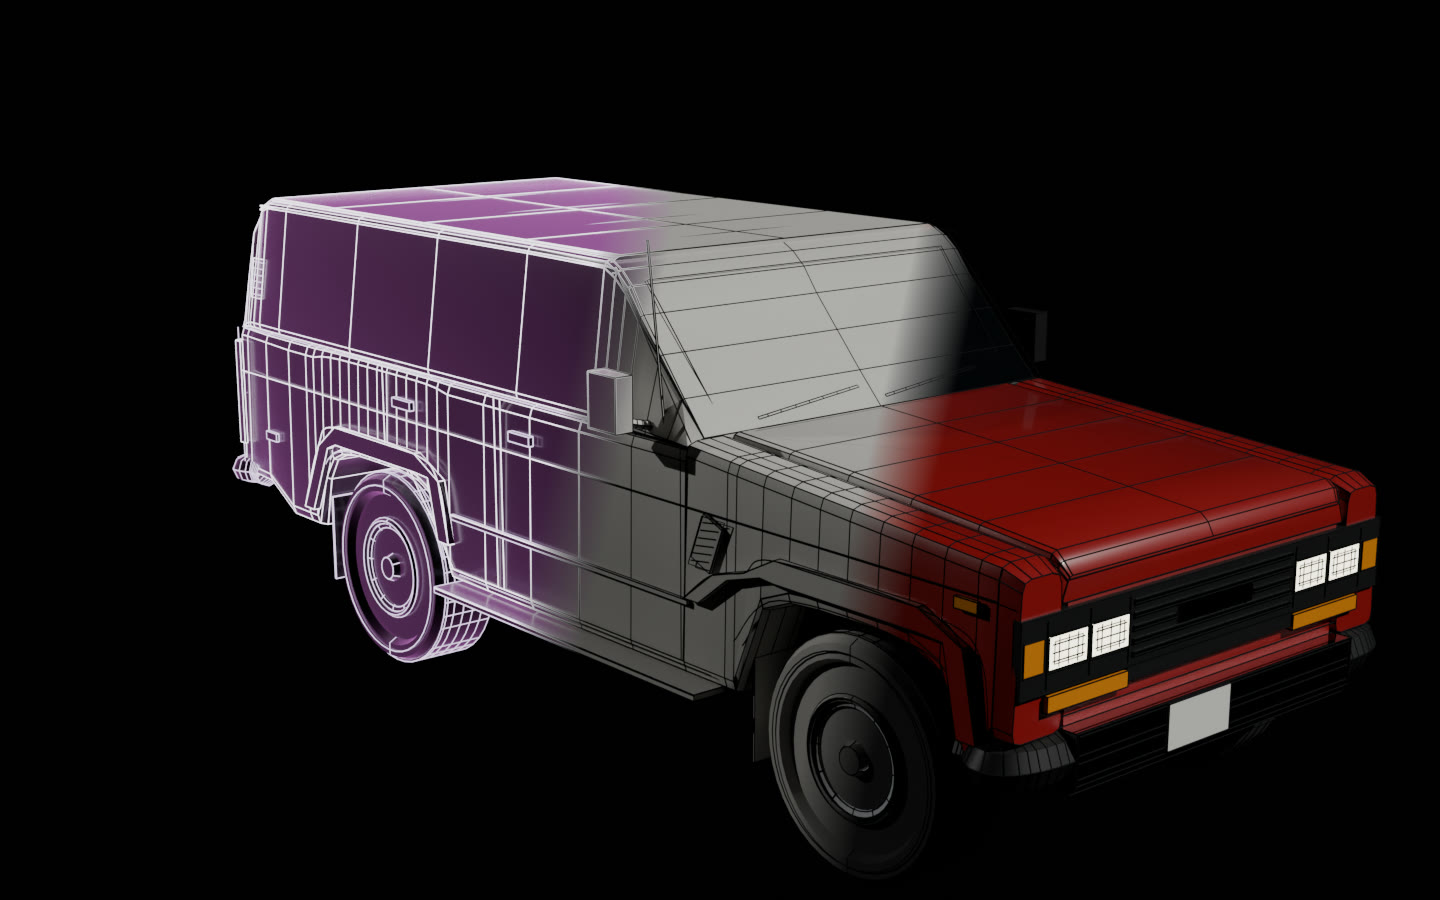
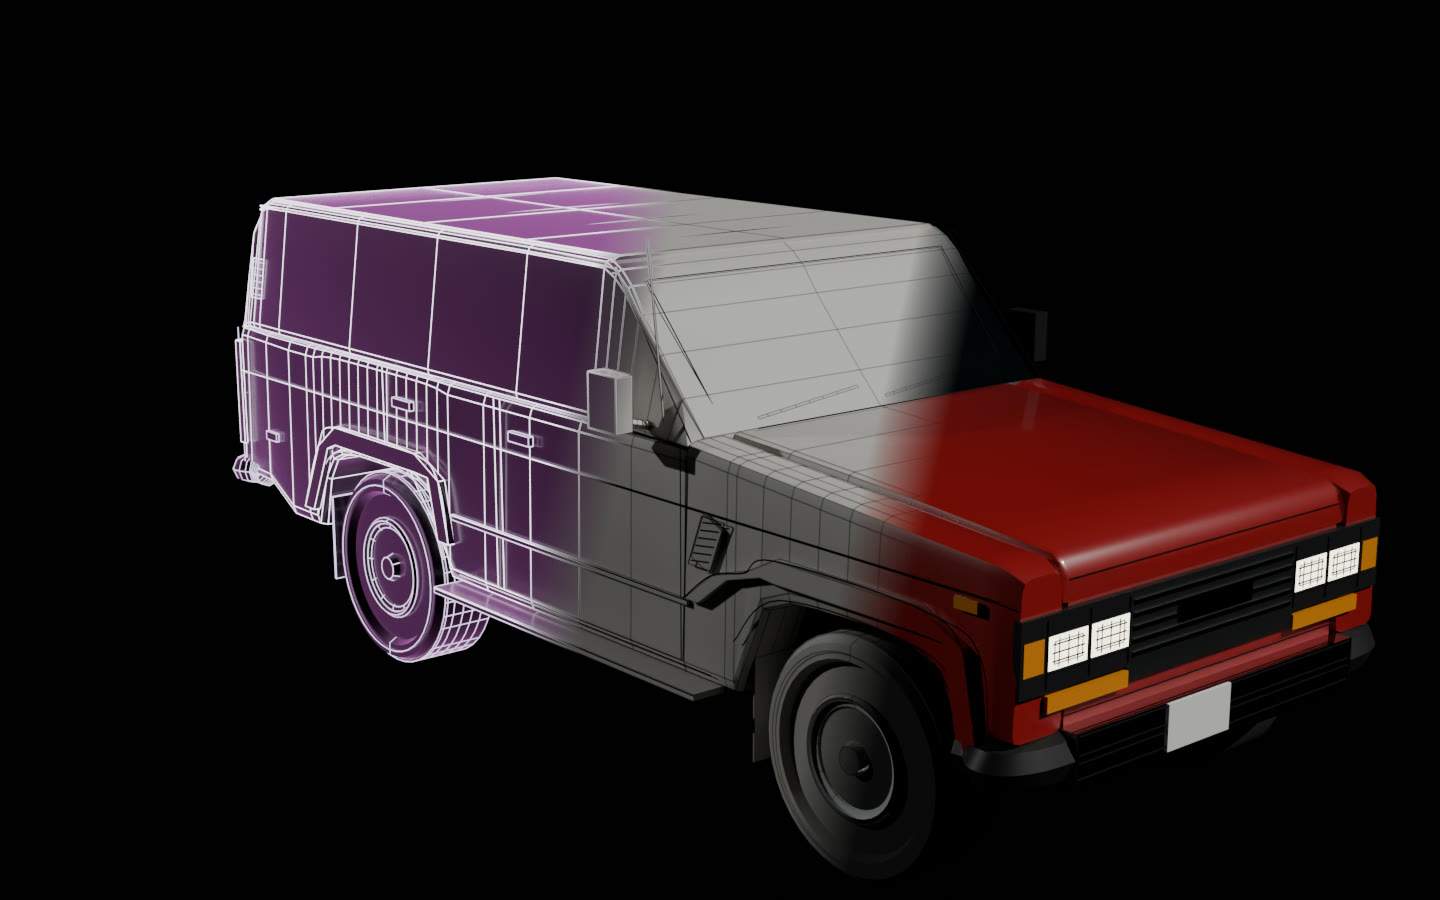
Seams, not wireframes: construction lines fade on the solid and finished model
A part's construction lines (the edges of its own surfaces) are not seams on a real object: in the
Blender add-on and on the example page they fade as the model turns solid (faint on the plain
model, gone on the finished one), and only the parts drawn as lines (door seams, creases, window
outlines) stay as seams. The hero is re-rendered.

diff --git a/examples/light-to-metal/index.html b/examples/light-to-metal/index.html
@@ -188,7 +188,7 @@ composer.addPass(new OutputPass());
 // one set of uniforms shared by every material of the current model
 const U = {
   uBuild: { value: 1 }, uScan: { value: 1.05 }, uMinY: { value: 0 }, uMaxY: { value: 1 }, uCert: { value: 0 },
-  uLines: { value: 1 }, uAccent: { value: new THREE.Color(TONE.accent) },
+  uLines: { value: 1 }, uFinish: { value: 1 }, uAccent: { value: new THREE.Color(TONE.accent) },
 };
 
 // a surface: its own colour and finish, a dark glass with a violet rim while it is light, a scan line turning it to metal
@@ -226,20 +226,24 @@ function surface(src, certColor) {
   return m;
 }
 
-// the line art: light while it is a hologram, dark seams once it is metal
-function lines(tone) {
+// the line art: light while it is a hologram, dark seams once it is metal. A part's construction
+// lines (the edges of its own surfaces) are not seams on a real object: they fade as it turns solid,
+// and only the design lines (parts drawn as lines: seams, creases, outlines) stay
+function lines(tone, construction) {
   return new THREE.ShaderMaterial({
-    uniforms: Object.assign({ uColor: { value: new THREE.Color(TONE[tone] || TONE.hairline) } }, U),
+    uniforms: Object.assign({ uColor: { value: new THREE.Color(TONE[tone] || TONE.hairline) }, uConstr: { value: construction ? 1 : 0 } }, U),
     vertexShader: `attribute float _phase; varying float vPhase; varying vec3 vWorld;
       void main() { vPhase = _phase; vec4 w = modelMatrix * vec4(position, 1.0); vWorld = w.xyz; gl_Position = projectionMatrix * viewMatrix * w; gl_PointSize = 4.0; }`,
-    fragmentShader: `uniform float uBuild, uScan, uMinY, uMaxY, uLines; uniform vec3 uColor, uAccent; varying float vPhase; varying vec3 vWorld;
+    fragmentShader: `uniform float uBuild, uScan, uMinY, uMaxY, uLines, uFinish, uConstr; uniform vec3 uColor, uAccent; varying float vPhase; varying vec3 vWorld;
       void main() {
         if (vPhase > uBuild + 0.0001 || uLines < 0.5) discard;
         float h = (vWorld.y - uMinY) / max(uMaxY - uMinY, 1e-4);
         float metal = smoothstep(uScan + 0.012, uScan - 0.012, h);
         float front = uBuild < 0.999 ? 1.0 - smoothstep(0.0, 0.03, uBuild - vPhase) : 0.0;
         vec3 col = mix(uColor * 0.95, vec3(0.018, 0.016, 0.02), metal) + uAccent * front * 2.0;
-        gl_FragColor = vec4(col, mix(0.9, 0.75, metal));
+        float keep = 1.0 - uConstr * metal * (0.65 + 0.35 * uFinish);
+        if (keep < 0.01) discard;
+        gl_FragColor = vec4(col, mix(0.9, 0.75, metal) * keep);
       }`,
     transparent: true, depthWrite: false,
   });
@@ -284,7 +288,7 @@ async function load(i) {
     if (!o.userData.src) o.userData.src = o.material;
     const p = partOf(o), cert = p ? p.userData.construct.certainty : "inferred";
     if (o.isMesh) { o.material = surface(o.userData.src, CERT[cert] || CERT.inferred); meshes.push(o); }
-    else { o.material = lines(toneOf(o.userData.src.name)); o.renderOrder = 1; }
+    else { o.material = lines(toneOf(o.userData.src.name), !!(o.parent && o.parent.children.some((c) => c.isMesh))); o.renderOrder = 1; }
   });
   // framing, the scan range, explode directions
   model.updateMatrixWorld(true);
@@ -338,6 +342,7 @@ const S = { metal: 1, finish: 1, build: 1, open: 0, explode: 0 };
 function setS(k, v) { S[k] = v; const el = $(k); el.value = v; el.style.setProperty("--p", (v * 100) + "%"); $(k + "-v").textContent = Math.round(v * 100) + "%"; }
 function apply() {
   U.uBuild.value = S.build;
+  U.uFinish.value = S.finish;
   U.uScan.value = -0.02 + S.metal * 1.04;
   bloom.strength = 0.1 + 0.5 * (1 - S.metal);
   for (const o of meshes) finishMaterial(o.material, S.finish);

diff --git a/hosts/blender/construct/__init__.py b/hosts/blender/construct/__init__.py
@@ -229,8 +229,13 @@ def _procedural(mat, shader):
         links.new(bump.outputs["Normal"], shader.inputs["Normal"])
 
 
-def _light_material(tone, root, name):
-    """The line art: light in the hologram, dark seams on the metal, revealed by the build."""
+def _light_material(tone, root, name, construction=False):
+    """The line art: light in the hologram, dark seams on the metal, revealed by the build.
+
+    Construction lines (the edges of a part's own surfaces: a loft's sections, a box's edges) make the
+    hologram readable but are not seams on a real object: they fade as it turns solid, faint on the
+    plain model and gone on the finished one. A part drawn only as lines (a door seam, a crease, a
+    window outline) is a design line and stays, as a seam."""
     mat = bpy.data.materials.new(name)
     mat.use_nodes = True
     nodes, links = mat.node_tree.nodes, mat.node_tree.links
@@ -253,6 +258,12 @@ def _light_material(tone, root, name):
     links.new(seam.outputs[0], look.inputs[2])
     clear = nodes.new("ShaderNodeBsdfTransparent")
     show = nodes.new("ShaderNodeMixShader")
+    if construction:
+        finish = _value_node(nodes, root, "finish", (-900, -600))
+        fade = _math(nodes, links, "MULTIPLY", metal.outputs[0],
+                     _math(nodes, links, "MULTIPLY_ADD", finish.outputs[0], 0.35, (-700, -600), c=0.65), (-500, -500))
+        keep = _math(nodes, links, "SUBTRACT", 1.0, fade, (-300, -500), clamp=True)
+        visible = _math(nodes, links, "MULTIPLY", visible, keep, (-100, -400))
     links.new(visible, show.inputs[0])
     links.new(clear.outputs[0], show.inputs[1])
     links.new(look.outputs[0], show.inputs[2])
@@ -383,17 +394,18 @@ def setup(root, objects, wire_radius, metal=1.0, keep_animations=False):
         if me is None:
             continue
         tone = ROLE_TONE.get(_info(o).get("role"), "hairline")
-        if tone not in lights:
-            name = "%s:light:%s" % (info.get("id", "construct"), tone)
-            lights[tone] = _light_material(tone, root, name)
-            groups[tone] = _tube_group(root, name, lights[tone])
+        key = (tone, len(o.data.polygons) > 0)        # lines of a part with surfaces are construction lines
+        if key not in lights:
+            name = "%s:light:%s%s" % (info.get("id", "construct"), tone, ":edges" if key[1] else "")
+            lights[key] = _light_material(tone, root, name, key[1])
+            groups[key] = _tube_group(root, name, lights[key])
         lo = bpy.data.objects.new(o.name.replace(":mesh", "") + ":light", me)
         for col in o.users_collection:
             col.objects.link(lo)
         lo.parent = o
-        lo.data.materials.append(lights[tone])
+        lo.data.materials.append(lights[key])
         mod = lo.modifiers.new("Construct Light", "NODES")
-        mod.node_group = groups[tone]
+        mod.node_group = groups[key]
     for m in list(bpy.data.materials):
         if m.name.startswith("construct:light") and m.users == 0:
             bpy.data.materials.remove(m)

diff --git a/construct_hologram/test_blender_addon.py b/construct_hologram/test_blender_addon.py
@@ -96,6 +96,7 @@ lights = [o for o in objs if o.name.endswith(":light")]
 e = lights[0].evaluated_get(bpy.context.evaluated_depsgraph_get())
 res["lights"], res["light_faces"], res["light_phase"] = len(lights), len(e.data.polygons), "_PHASE" in e.data.attributes
 res["light_material"] = bool(e.data.materials) and e.data.materials[0] is not None and ":light:" in e.data.materials[0].name
+res["edge_materials"] = sorted({m.name.endswith(":edges") for m in bpy.data.materials if ":light:" in m.name and not m.name.startswith("construct:")})
 res["open_actions"] = [a.name for a in bpy.data.actions if a.name.startswith("open")]
 bpy.ops.construct.animate_reveal()
 res["reveal_keyed"] = root.animation_data is not None and root.animation_data.action is not None
@@ -123,6 +124,7 @@ class InBlender(unittest.TestCase):
                 self.assertEqual(res["op"], ["FINISHED"])
                 self.assertEqual(res["props"], ["build", "finish", "metal", "open", "wire"])
                 self.assertTrue(res["light_material"])   # the tubes carry the line material, not Blender's default
+                self.assertEqual(res["edge_materials"], [False, True])   # design lines and construction lines
                 self.assertTrue(res["drivers_valid"])
                 self.assertGreater(res["joint_vertices"], 100)
                 self.assertLess(res["joint_worst"], 1e-4)

diff --git a/CHANGELOG.md b/CHANGELOG.md
@@ -33,6 +33,9 @@
   and makes wood, brushed metal and rubber procedural. The example page gains the same control and
   material maps for its four constructs; its hero shows the hologram, the plain model and the
   finished one in one Blender render.
+- **Seams, not wireframes:** on the solid and finished model, a part's construction lines (the
+  edges of its own surfaces) fade, faint on the plain model and gone on the finished one; parts
+  drawn as lines (seams, creases, outlines) stay as seams. In the add-on and on the example page.
 - **Fixed in the Blender add-on:** the line art's tubes rendered with Blender's default material
   (geometry made by a modifier carries none); each tone now has a node group that sets it.
 - **Audit:** `no-surface` warns when a main or structural part is drawn only as lines, so it would

diff --git a/examples/light-to-metal/README.md b/examples/light-to-metal/README.md
@@ -20,7 +20,8 @@ On the page:
 - **Light ↔ Metal** sweeps a scan line up the model: below it the solid model, its lines as dark
   seams; above it the hologram, lines of light over dark glass.
 - **Plain ↔ Finished** turns the plain model (clay) into the finished one: paint, chrome, glass,
-  brushed metal, rubber, lamps.
+  brushed metal, rubber, lamps. As the model turns solid, the construction lines (the edges of each
+  part's surfaces) fade, and only the design lines stay as seams: doors, creases, outlines.
 - **Build** replays the assembly from each vertex's build phase, with its bright front.
 - **Open** plays the model's own joints, from the file's `open` animation.
 - **Explode** takes the model apart into its named parts; hover a part to read its name, role,

diff --git a/hosts/blender/README.md b/hosts/blender/README.md
@@ -56,7 +56,9 @@ The add-on uses Blender's own glTF importer for the parts, the stages and the mo
   (wood grain, brushed streaks and rubber's tooth are procedural, so no texture coordinates are
   needed), is revealed by **Build** through the `_PHASE` attribute, glows at the build front, and
   turns to dark glass toward **Light**; the line art is light in the hologram and a dark seam on
-  the metal.
+  the metal. Only design lines (parts drawn as lines: door seams, creases, window outlines) stay as
+  seams: a part's construction lines, the edges of its own surfaces, fade as it turns solid, faint
+  on the plain model and gone on the finished one.
 
 ## Licence
 
